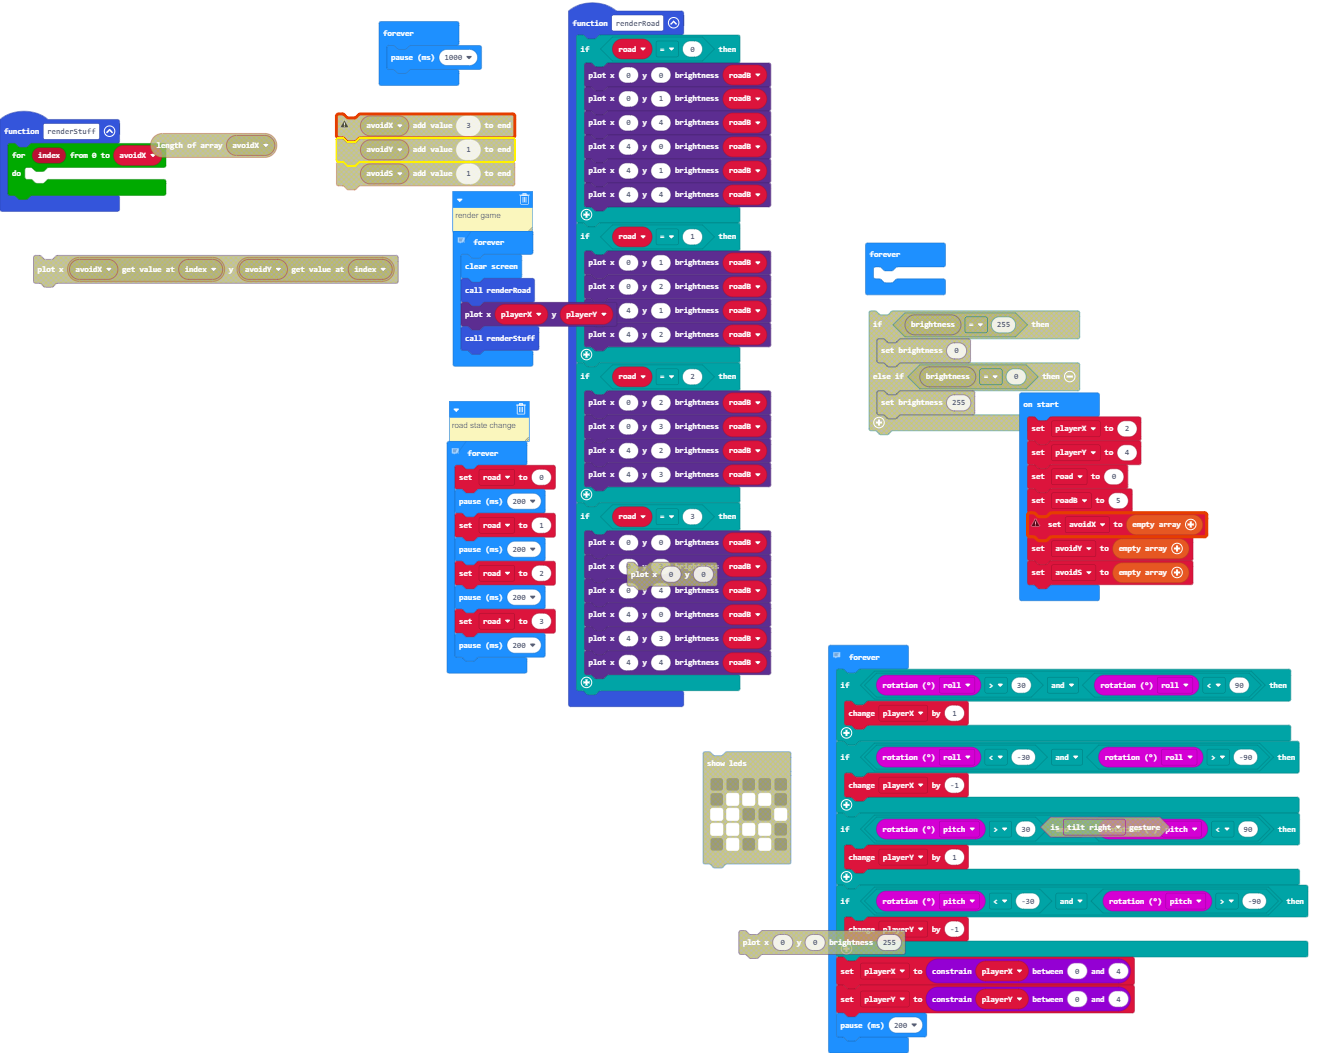
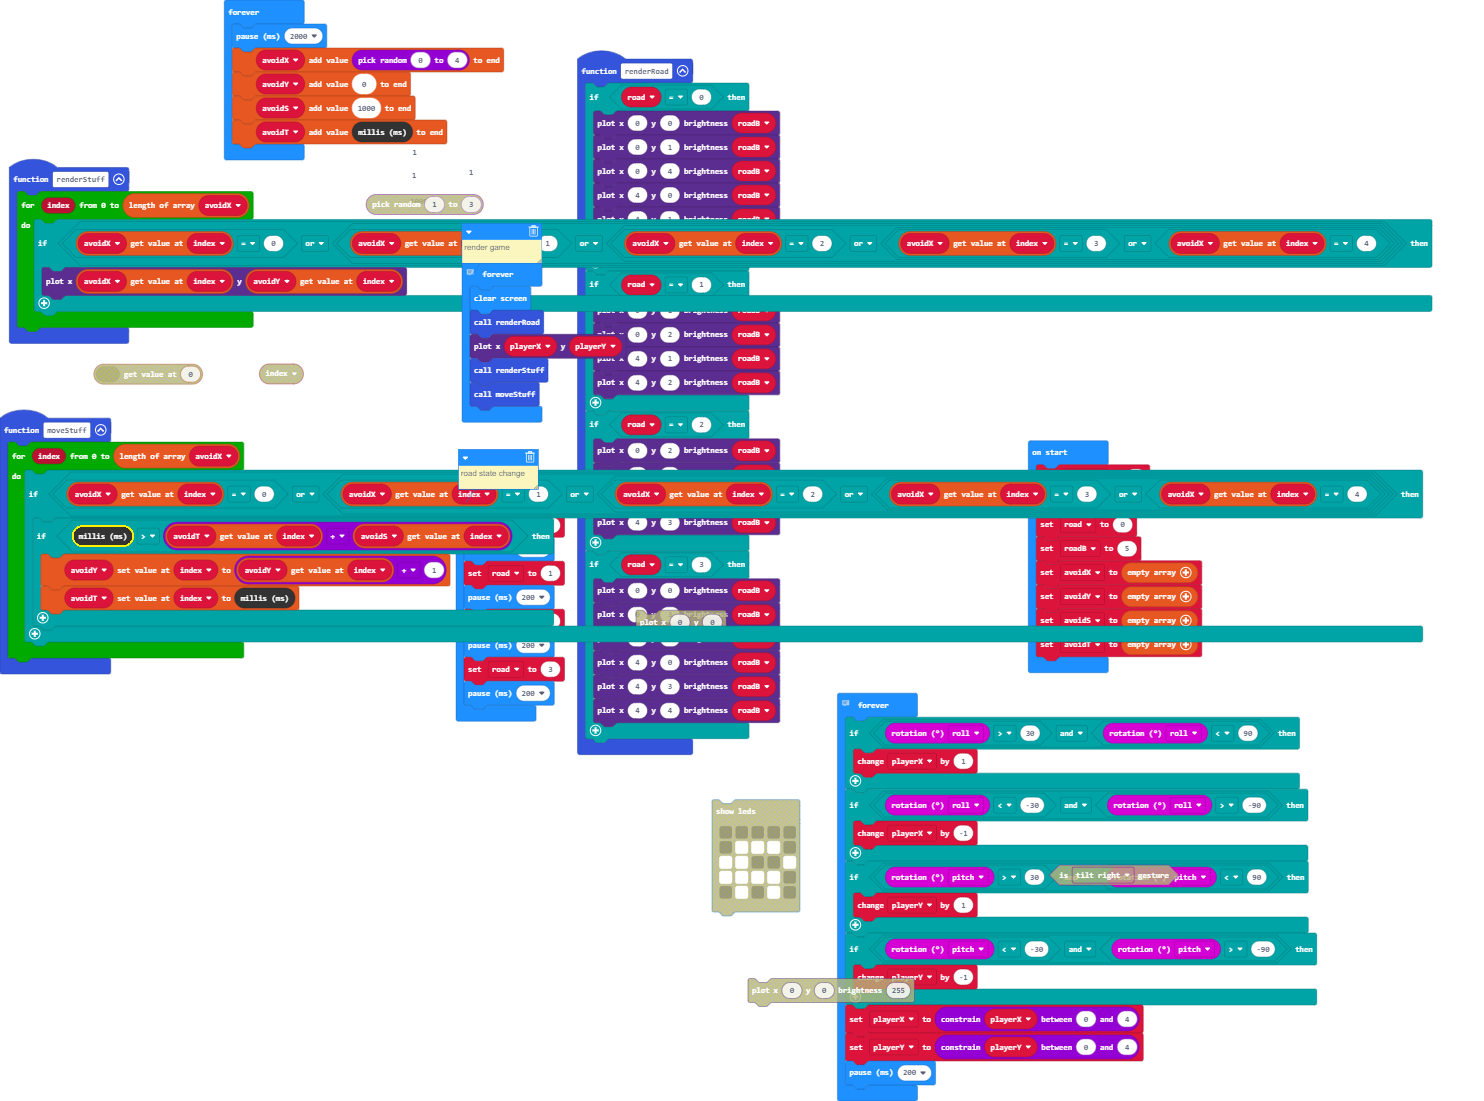
Update main.blocks, main.ts

diff --git a/main.ts b/main.ts
@@ -1,6 +1,18 @@
+function moveStuff () {
+    for (let index = 0; index <= avoidX.length; index++) {
+        if (avoidX[index] == 0 || (avoidX[index] == 1 || (avoidX[index] == 2 || (avoidX[index] == 3 || avoidX[index] == 4)))) {
+            if (control.millis() > avoidT[index] + avoidS[index]) {
+                avoidY[index] = avoidY[index] + 1
+                avoidT[index] = control.millis()
+            }
+        }
+    }
+}
 function renderStuff () {
-    for (let index = 0; index <= avoidX; index++) {
-    	
+    for (let index = 0; index <= avoidX.length; index++) {
+        if (avoidX[index] == 0 || (avoidX[index] == 1 || (avoidX[index] == 2 || (avoidX[index] == 3 || avoidX[index] == 4)))) {
+            led.plot(avoidX[index], avoidY[index])
+        }
     }
 }
 function renderRoad () {
@@ -33,18 +45,26 @@ function renderRoad () {
         led.plotBrightness(4, 4, roadB)
     }
 }
-let avoidX: number = []
-let roadB: number = []
-let road: number = []
+let avoidT: number[] = []
+let avoidS: number[] = []
+let avoidY: number[] = []
+let avoidX: number[] = []
+let roadB = 0
+let road = 0
 let playerX = 2
 let playerY = 4
 road = 0
 roadB = 5
 avoidX = []
-let avoidY: number[] = []
-let avoidS: number[] = []
+avoidY = []
+avoidS = []
+avoidT = []
 basic.forever(function () {
-    basic.pause(1000)
+    basic.pause(2000)
+    avoidX.push(randint(0, 4))
+    avoidY.push(0)
+    avoidS.push(1000)
+    avoidT.push(control.millis())
 })
 // render game
 basic.forever(function () {
@@ -52,9 +72,7 @@ basic.forever(function () {
     renderRoad()
     led.plot(playerX, playerY)
     renderStuff()
-})
-basic.forever(function () {
-	
+    moveStuff()
 })
 // road state change
 basic.forever(function () {
